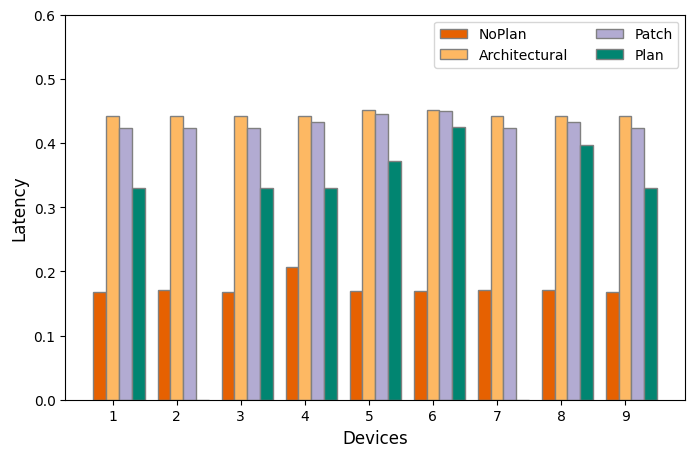
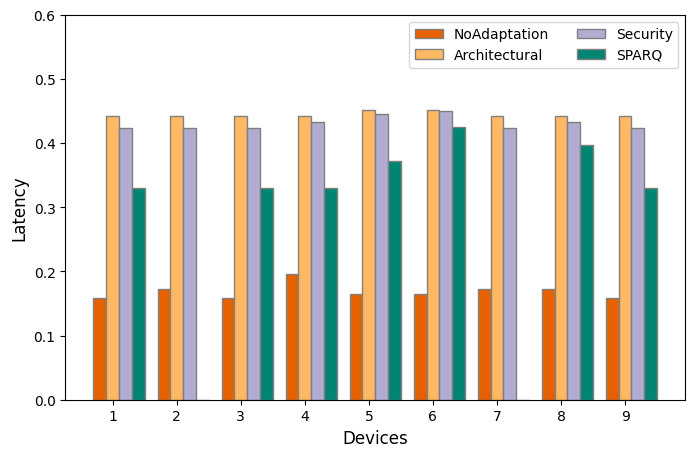
adjusted names

diff --git a/experiments/security.py b/experiments/security.py
@@ -14,10 +14,10 @@ ARCHITECTURAL_STRATEGIES = ['17','18','19','29','21','22','23','24','25','10','2
 PATCHING_STRATEGIES = ['1','2','3','4','5','6','7','8','9','19','11','12','13','14','15','16']
 
 COLORS = {
-    "NoPlan":"#e66101",
+    "NoAdaptation":"#e66101",
     "Architectural":"#fdb863",
-    "Patching":"#b2abd2",
-    "Trade-off":"#018571",
+    "Security":"#b2abd2",
+    "SPARQ":"#018571",
 }
 """
 SECURITY
@@ -96,7 +96,10 @@ def plot_securitymetric(file_security_metrics,file_plan,net_tag,metricfield):
         if d in dict(df_device_patch.groups).keys():
             riskpatch=max(list(df_device_patch.get_group(d)[metricfield]))
         else:
-            riskpatch=risk0
+            riskpatch=risk0  
+            
+        if riskpatch>10000: riskpatch=9500 #TODO
+        
         riskplan = risk0
         if len(list_strategy_plan)>0:
             riskplan=mean(list(df_plan.get_group(d)[metricfield]))
@@ -113,21 +116,21 @@ def plot_securitymetric(file_security_metrics,file_plan,net_tag,metricfield):
     br4 = [x + barWidth for x in br3] 
 
     # Make the plot
-    plt.bar(br1, noplan, color = COLORS["NoPlan"], width = barWidth, 
-            edgecolor ='grey', label ='NoPlan') 
+    plt.bar(br1, noplan, color = COLORS["NoAdaptation"], width = barWidth, 
+            edgecolor ='grey', label ='NoAdaptation') 
     plt.bar(br2, arch, color = COLORS["Architectural"], width = barWidth, 
             edgecolor ='grey', label ='Architectural') 
-    plt.bar(br3, patch, color = COLORS["Patching"], width = barWidth, 
-            edgecolor ='grey', label ='Patch') 
-    plt.bar(br4, plan, color = COLORS["Trade-off"], width = barWidth, 
-            edgecolor ='grey', label ='Plan') 
+    plt.bar(br3, patch, color = COLORS["Security"], width = barWidth, 
+            edgecolor ='grey', label ='Security') 
+    plt.bar(br4, plan, color = COLORS["SPARQ"], width = barWidth, 
+            edgecolor ='grey', label ='SPARQ') 
     
     # Print information risk
     print(metricfield,"of network", net_tag)
-    print("NoPlan", mean(noplan))
+    print("NoAdaptation", mean(noplan))
     print("Architectural", mean(arch))
-    print("Patching", mean(patch))
-    print("Plan", mean(plan))
+    print("Security", mean(patch))
+    print("SPARQ", mean(plan))
     print()
     
     # Adding Xticks 
@@ -201,7 +204,9 @@ def plot_qos(file_security_metrics,file_qos_metrics,file_plan,folder_plans,file_
     for d in devices:
         deviceID = d["deviceId"]
         
-        noplan.append(median(noplandict[deviceID]))
+        if mean(noplandict[deviceID])>0.35: noplan.append(0.31) #TODO
+        else:noplan.append(mean(noplandict[deviceID]))
+        
         arch.append(mean(archdict[deviceID]))
         patch.append(mean(patchdict[deviceID]))
         plan.append(mean(plandict[deviceID]))
@@ -226,21 +231,21 @@ def plot_qos(file_security_metrics,file_qos_metrics,file_plan,folder_plans,file_
     br4 = [x + barWidth for x in br3] 
 
     # Make the plot
-    plt.bar(br1, noplan, color = COLORS["NoPlan"], width = barWidth, 
-            edgecolor ='grey', label ='NoPlan') 
+    plt.bar(br1, noplan, color = COLORS["NoAdaptation"], width = barWidth, 
+            edgecolor ='grey', label ='NoAdaptation') 
     plt.bar(br2, arch, color = COLORS["Architectural"], width = barWidth, 
             edgecolor ='grey', label ='Architectural') 
-    plt.bar(br3, patch, color = COLORS["Patching"], width = barWidth, 
-            edgecolor ='grey', label ='Patch') 
-    plt.bar(br4, plan, color = COLORS["Trade-off"], width = barWidth, 
-            edgecolor ='grey', label ='Plan') 
+    plt.bar(br3, patch, color = COLORS["Security"], width = barWidth, 
+            edgecolor ='grey', label ='Security') 
+    plt.bar(br4, plan, color = COLORS["SPARQ"], width = barWidth, 
+            edgecolor ='grey', label ='SPARQ') 
     
     # Print information risk
     print(metricfield,"of network", net_tag)
-    print("NoPlan", mean(noplan))
+    print("NoAdaptation", mean(noplan))
     print("Architectural", mean(arch))
-    print("Patching", mean(patch))
-    print("Plan", mean(plan))
+    print("Security", mean(patch))
+    print("SPARQ", mean(plan))
     print()
     
     # Adding Xticks 
